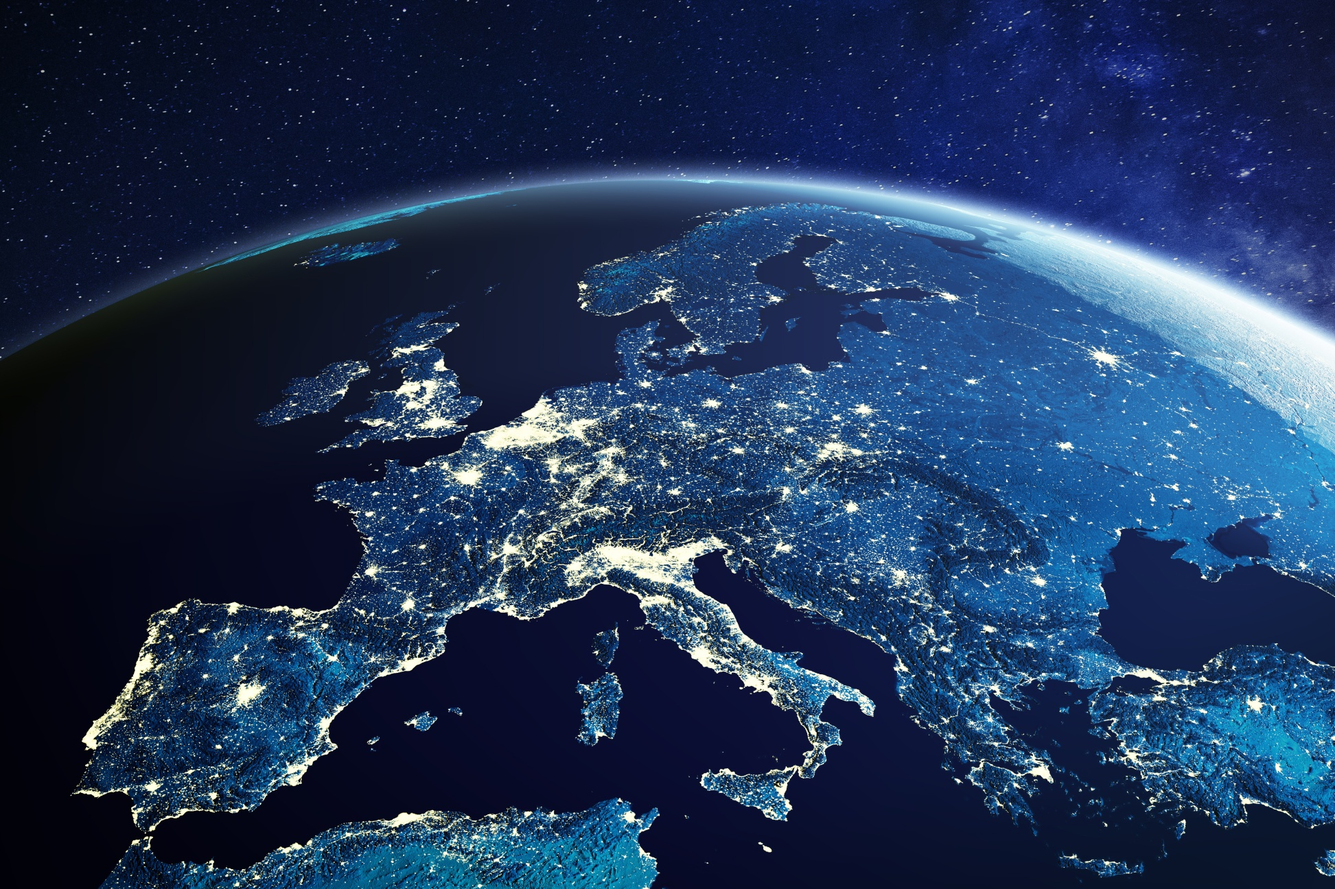
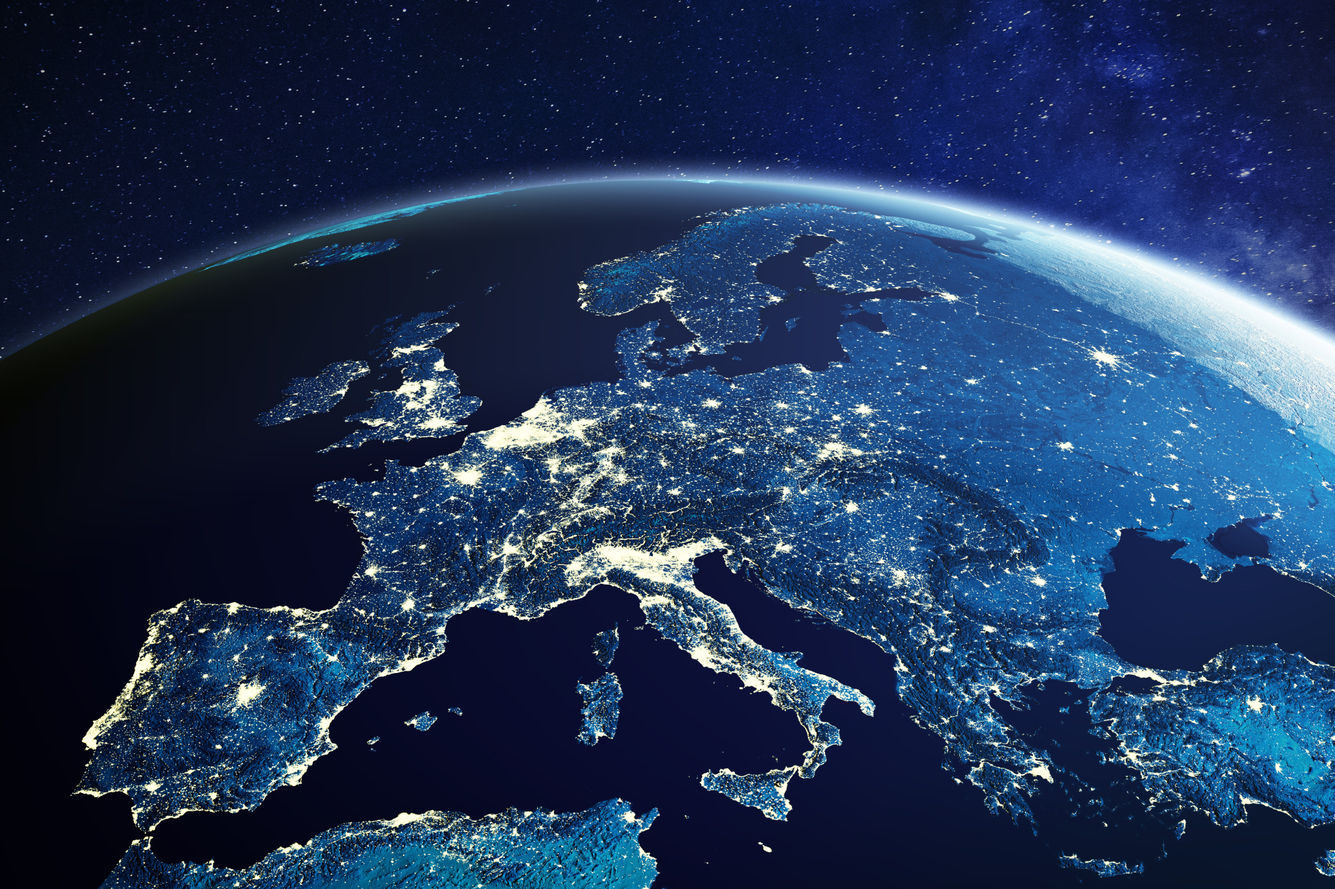
use nextjs Image for auto optimization

diff --git a/pages/_app.tsx b/pages/_app.tsx
@@ -16,6 +16,7 @@ import AuthContextProvider from "../contexts/authContext";
 import { Poppins } from "@next/font/google";
 
 import Footer from "../components/Footer";
+import Image from "next/image";
 
 const font = Poppins({
   weight: "500",
@@ -35,11 +36,11 @@ function MyApp({ Component, pageProps }: AppProps) {
       `}</style>
       <div className="AppContainer" style={{ position: "relative" }}>
         <div className="AppContainerBackground">
-          <div
-            className="AppContainerImage"
-            style={{
-              backgroundImage: `url("/img/europe_smaller.jpg")`,
-            }}
+          <Image
+            className="BackgroundImage"
+            src="/img/europe_smaller.jpg"
+            alt="Map of Europe"
+            fill={true}
           />
         </div>
         <div className="AppBody">

diff --git a/public/styles/globals.css b/public/styles/globals.css
@@ -181,7 +181,7 @@ blockquote {
 }
 
 .AppContainerBackground {
-  position: absolute;
+  position: fixed;
   top: 0;
   left: 0;
   height: 100%;
@@ -189,15 +189,12 @@ blockquote {
   overflow: hidden;
 }
 
-.AppContainerImage {
-  height: 100%;
+.BackgroundImage {
   width: 100%;
-  background-attachment: fixed;
-  background-size: cover;
-  background-repeat: no-repeat;
-  background-position: 50% 30%;
+
   filter: saturate(0);
   opacity: 0.3;
+  object-fit: cover;
   /* animation: slowmove 60s; */
 }
 
